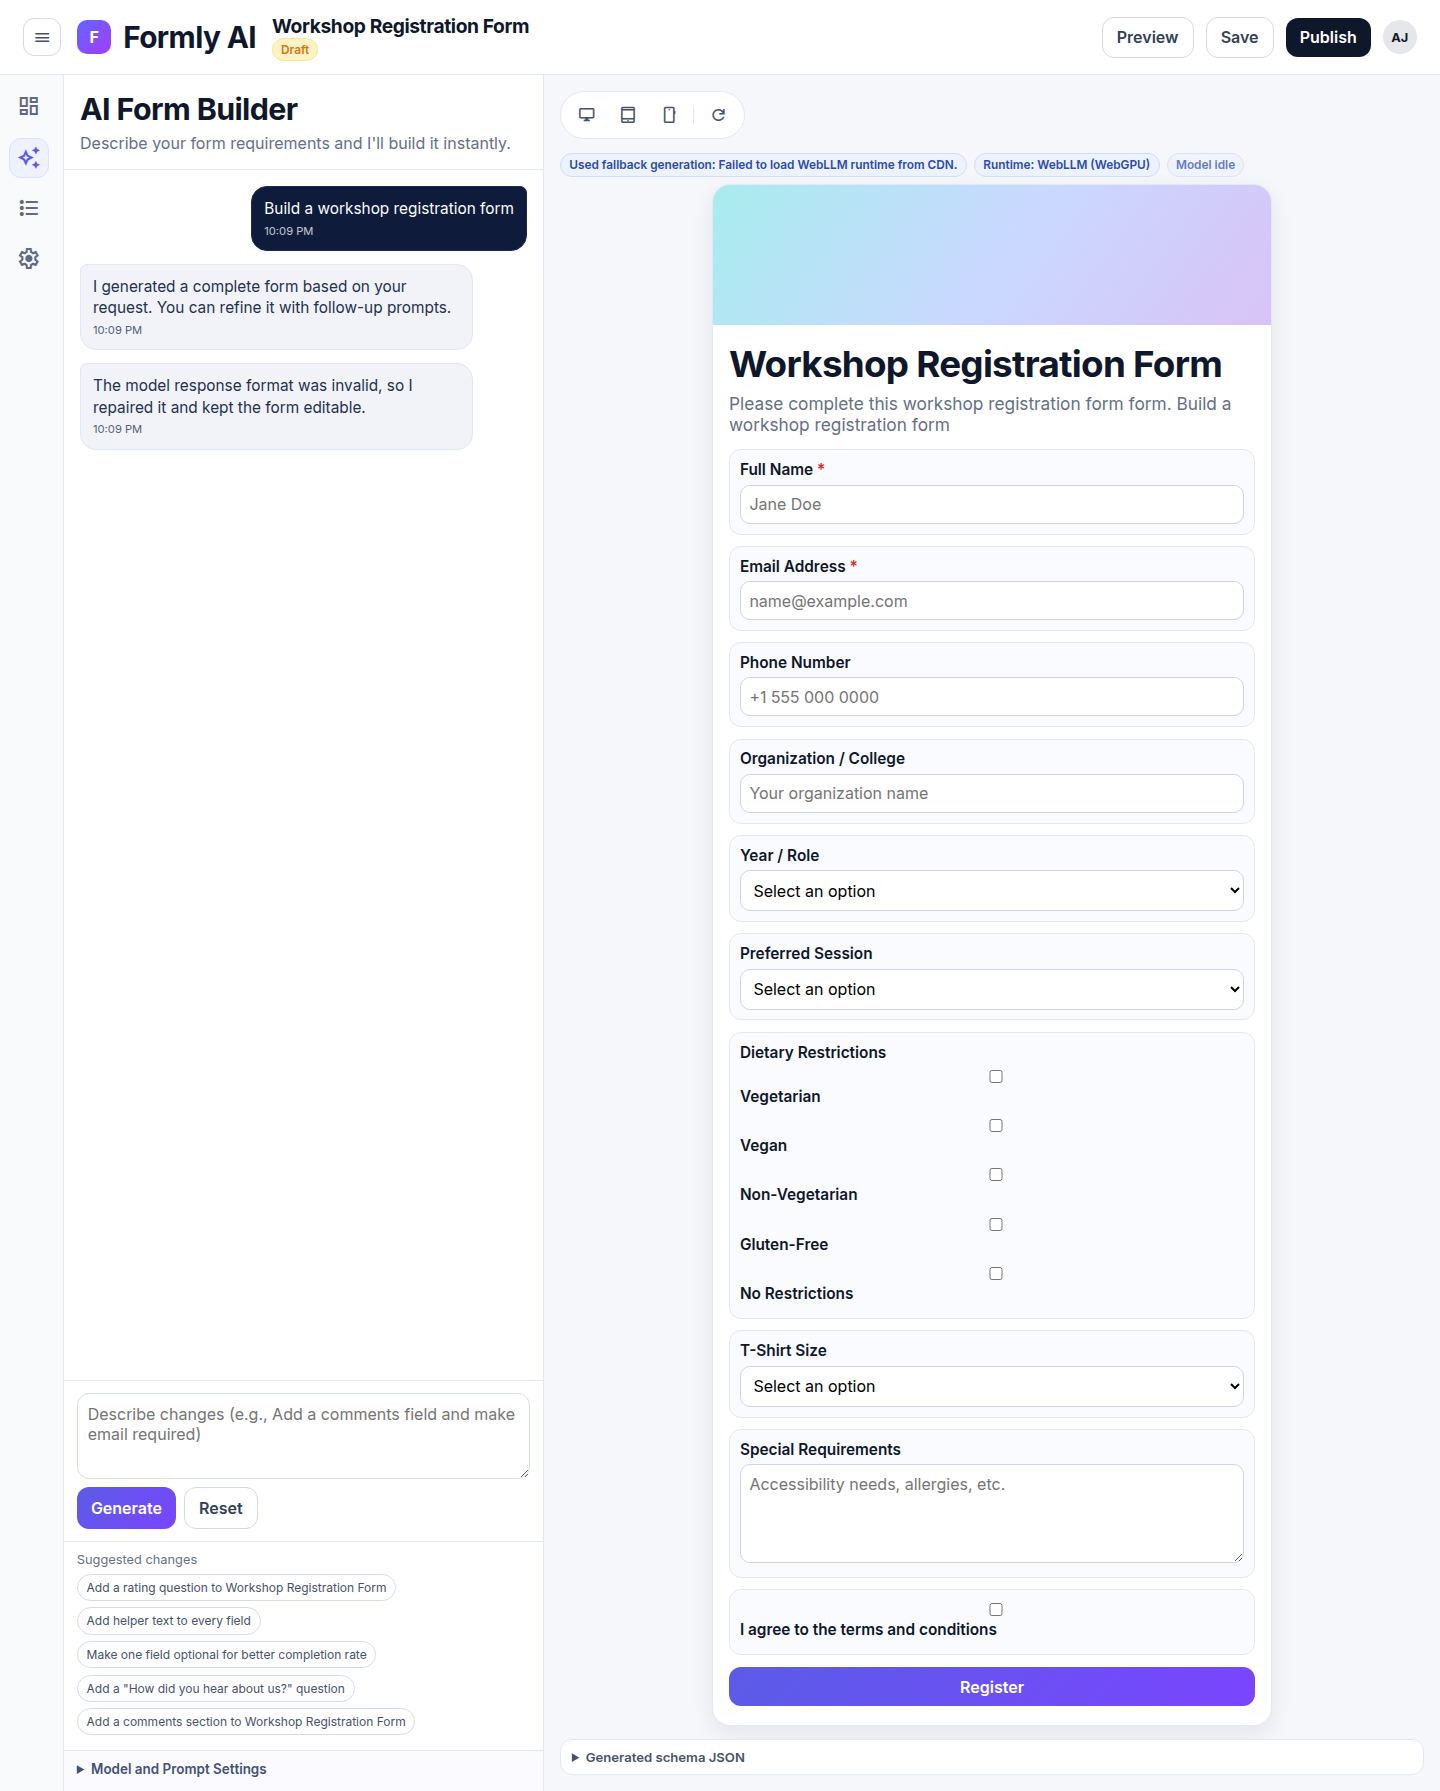
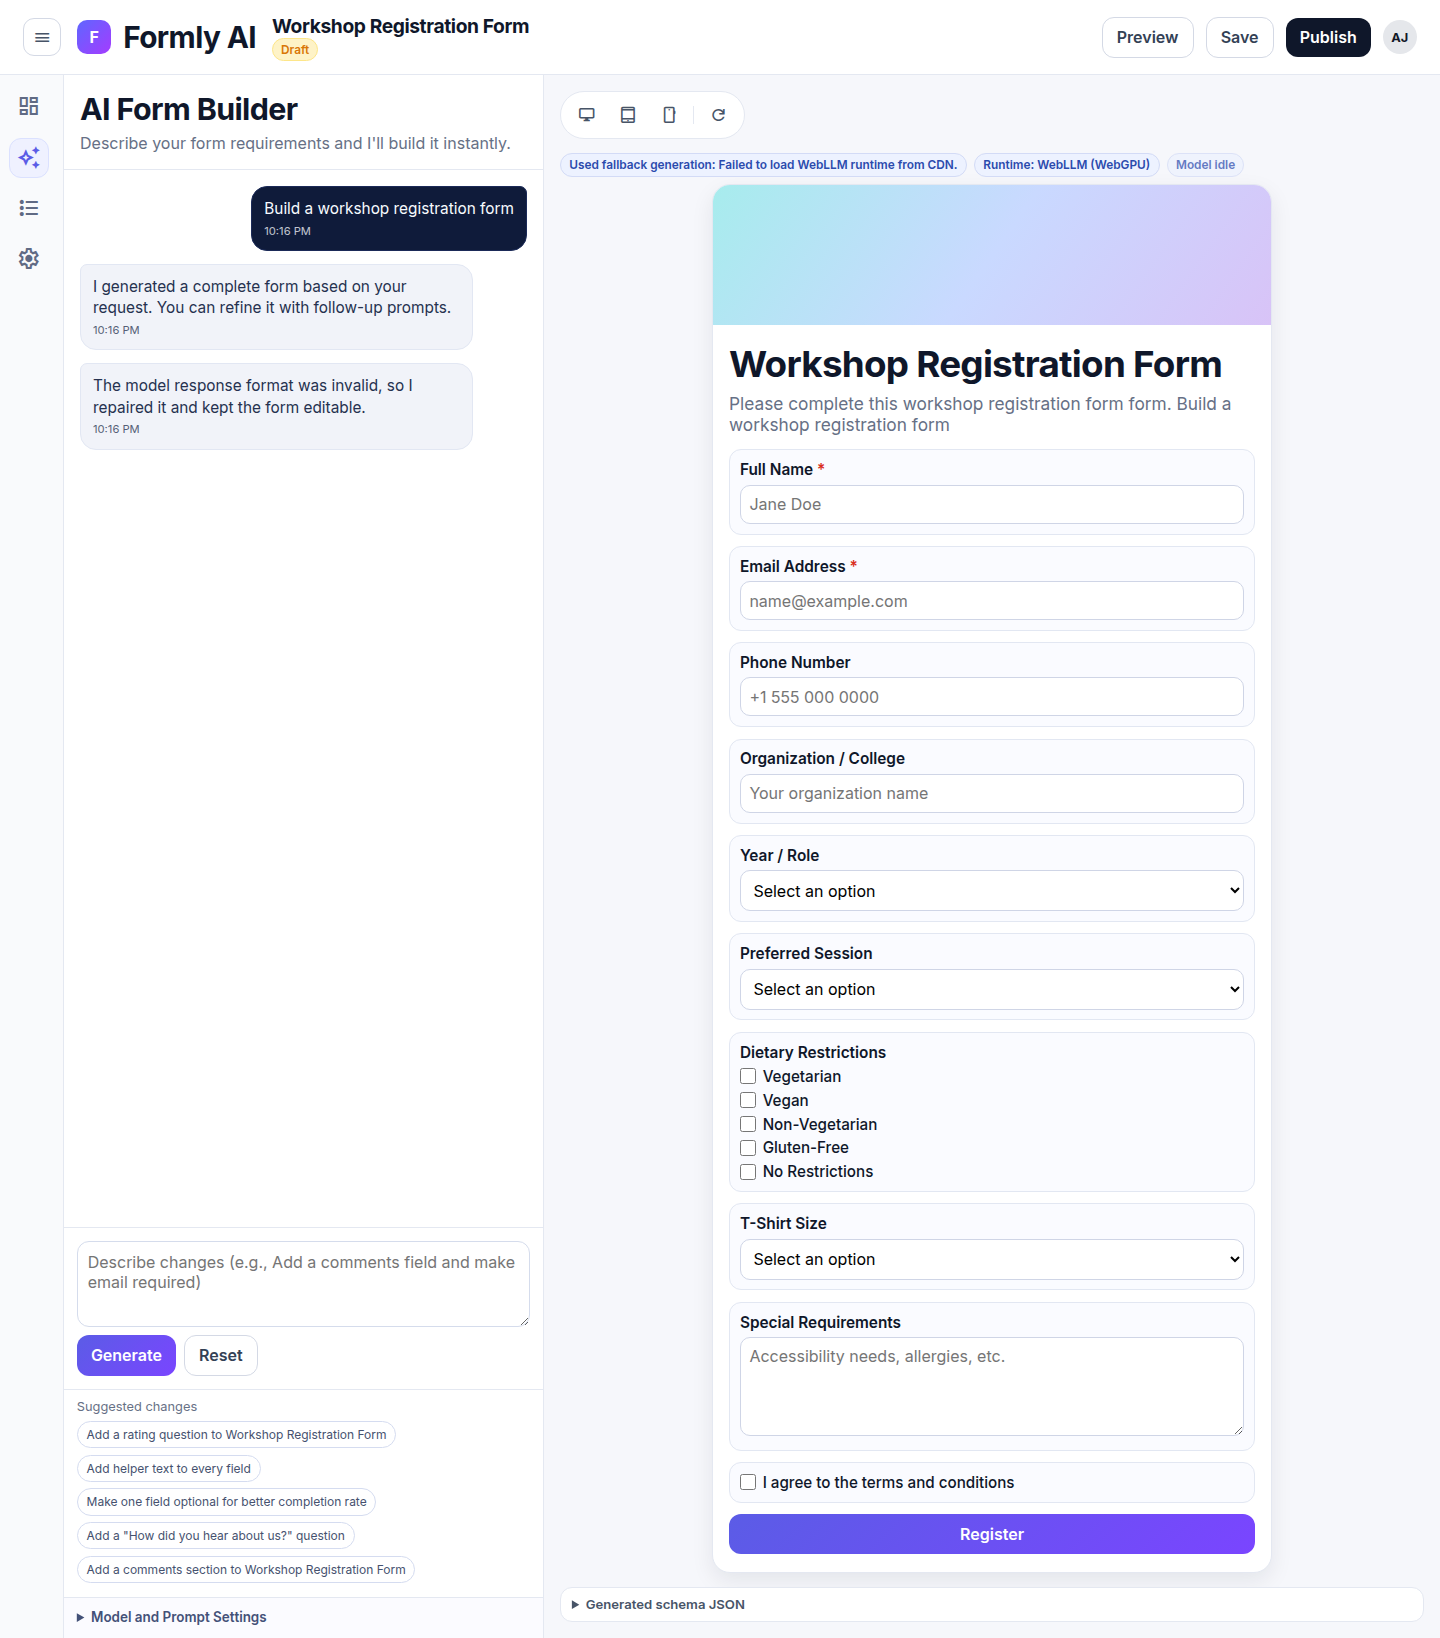
Fix checkbox and radio alignment in form preview
The generic .field label (display: block) and .field input (width: 100%)
rules overrode .option-item, so each checkbox/radio stretched full width
and sat above its label. Scope the option styles under .field so they win,
keep inputs at their natural size, and refresh the builder screenshot.

diff --git a/assets/css/builder.css b/assets/css/builder.css
@@ -312,11 +312,23 @@
   gap: 0.3rem;
 }
 
-.option-item {
+.field .option-item {
   display: flex;
   align-items: center;
   gap: 0.42rem;
+  margin-bottom: 0;
   font-size: 0.95rem;
+  font-weight: 500;
+  cursor: pointer;
+}
+
+.field .option-item input {
+  flex: none;
+  width: 1rem;
+  height: 1rem;
+  margin: 0;
+  padding: 0;
+  accent-color: var(--accent);
 }
 
 .status-pill {
